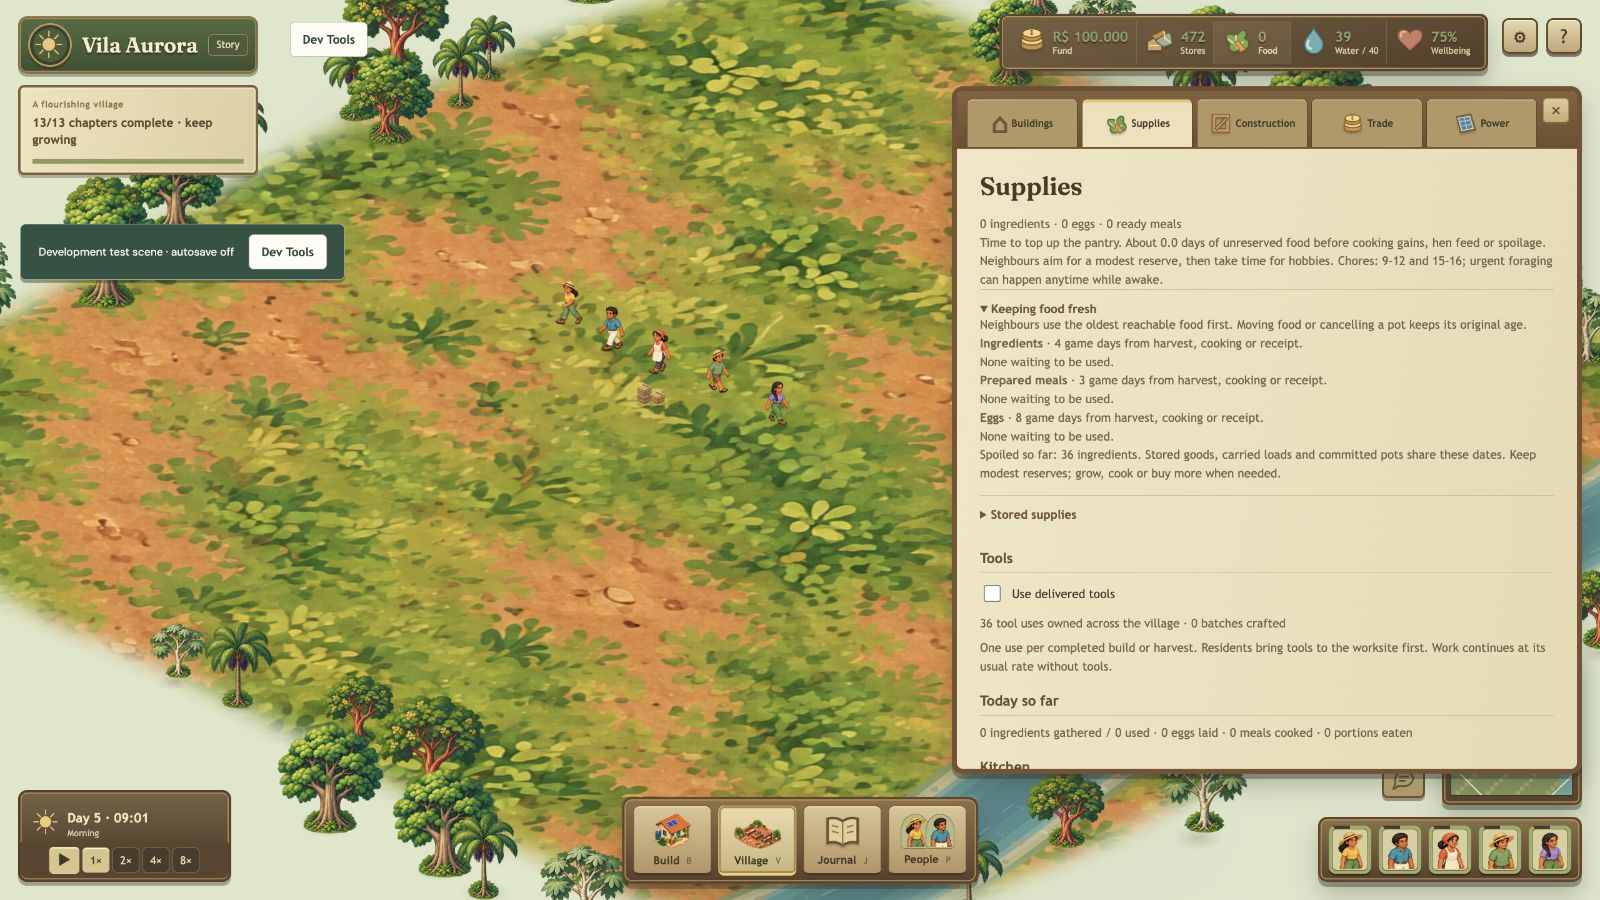
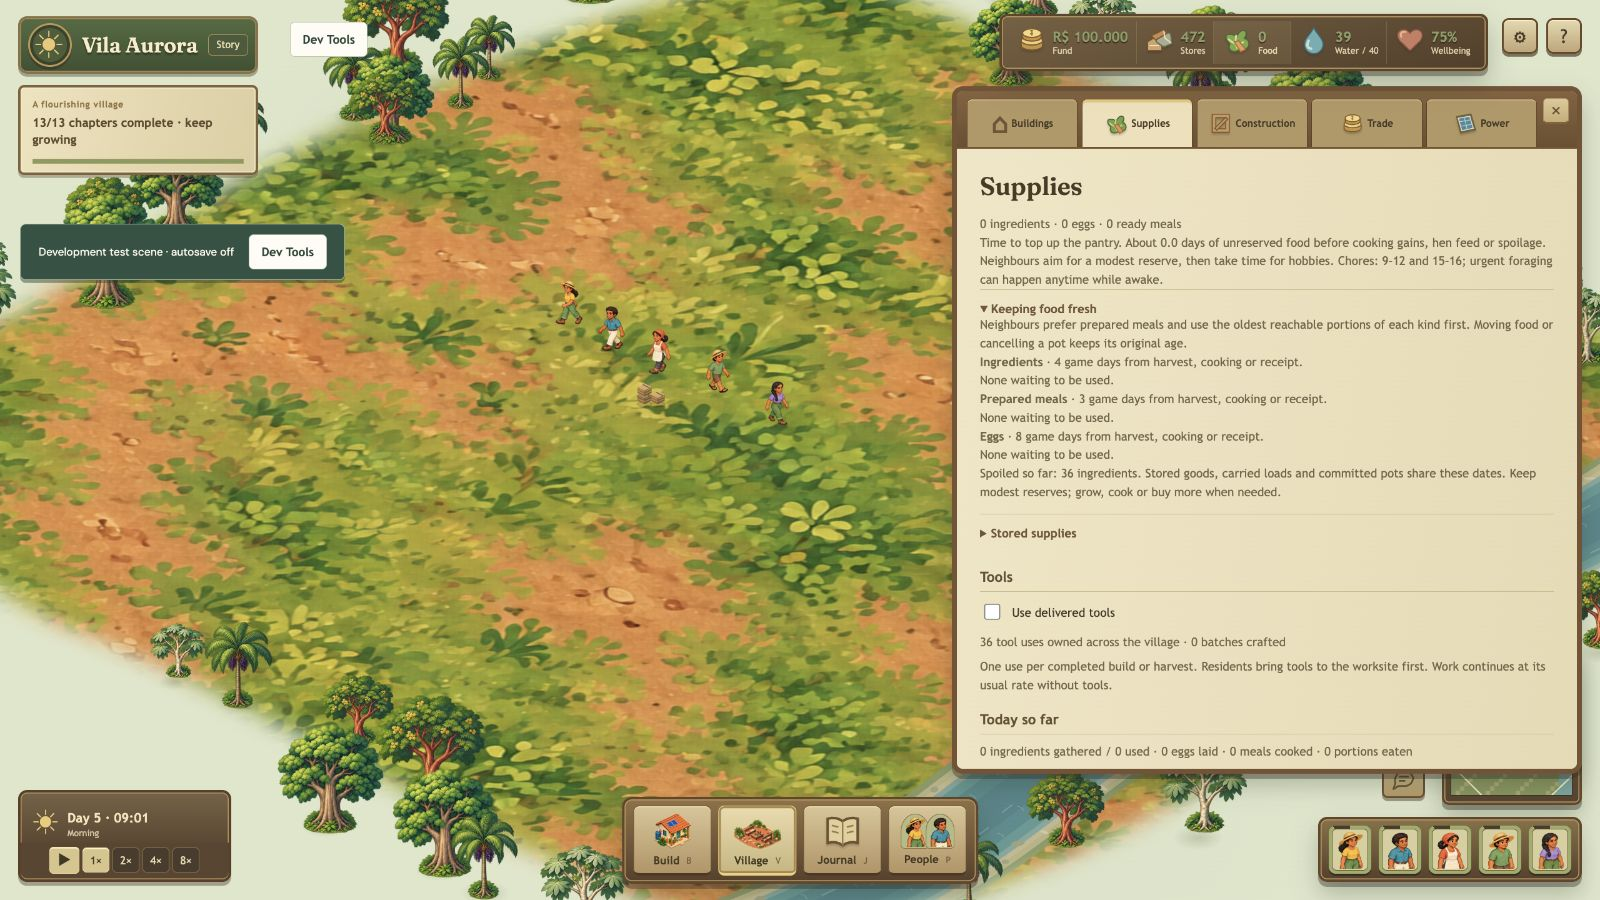
Record freshness progress and current gameplay evidence

Changed region(s): [[0.5938, 0.3422, 0.9688, 0.84]]

diff --git a/simulator-plan.md b/simulator-plan.md
@@ -205,7 +205,7 @@ Completion requires all six systems, the redesigned Story introductions, configu
 
 ## Implementation progress
 
-- Stage 3 perishability is in progress: dated ingredient, meal and egg lots follow stores, cargo and committed cooking inputs. Story removes expired portions once; Sandbox keeps its forgiving default. FIFO consumption and input recovery preserve original dates. Native checks cover mixed lots, actual carried food, partial spoilage, interrupted pots and exact saves. Supplies shows upcoming expiry, dated locations and cumulative losses; Dev Tools exposes the same read-only dates. Dedicated public replays cover FIFO eating, real hauling, putting food down, partial cargo loss, fresh-only pot refunds, pantry recovery and exact continuation. Manual desktop review confirms the warning and loss update with actual stock. Full campaign, combined balance and desktop regressions remain in progress. Passive-process integration and Stages 4–7 retain their full scope.
+- Stage 3 perishability is in progress: dated ingredient, meal and egg lots follow stores, cargo and committed cooking inputs. Story removes expired portions once; Sandbox keeps its forgiving default. Prepared meals take preference over raw ingredients, with oldest reachable portions first within each kind. Input recovery preserves dates. All 245 native checks and strict lint pass, including spoiled gathering meals. Supplies shows an always-visible use-soon warning, dates at storage locations and cumulative losses; Dev Tools exposes the same read-only dates. Dedicated public replays cover eating, real hauling, putting food down, partial cargo loss, fresh-only pot refunds, pantry recovery and exact continuation. Manual desktop review confirms warnings and losses against actual stock. The full replay exposed long gathering deliveries in the expanded village; a real kitchen-to-square road lets those trips finish within community hours, and missed-deadline guidance names roads and closer tables. Prepared-meal preference also preserves organic cooking concerns and both care agreements. The full campaign and desktop regressions are being rerun on the latest build. Passive-process integration, combined balance and Stages 4–7 retain their full scope.
 
 - Stage 0 in progress: persisted simulation schema and seed; shared identities for stores, shipments and building-work jobs; eight days of observed time per resident; material receipt and spending accounts; read-only located-inventory diagnostics and strict state validation. Production batches, utility connections and maintenance identities follow in their stages.
 - Five protected baseline scenarios are available for compact and dispersed layouts, empty funds, enclosed storage, and an established village. Native and public-API checks cover exact reloads, midnight splitting, bounded history, invalid state, real construction accounting, stable IDs, seed persistence, and read-only inspection. Browser review confirmed one hour of observed resident time and zero material discrepancies. The full six-system completion audit remains outstanding.
